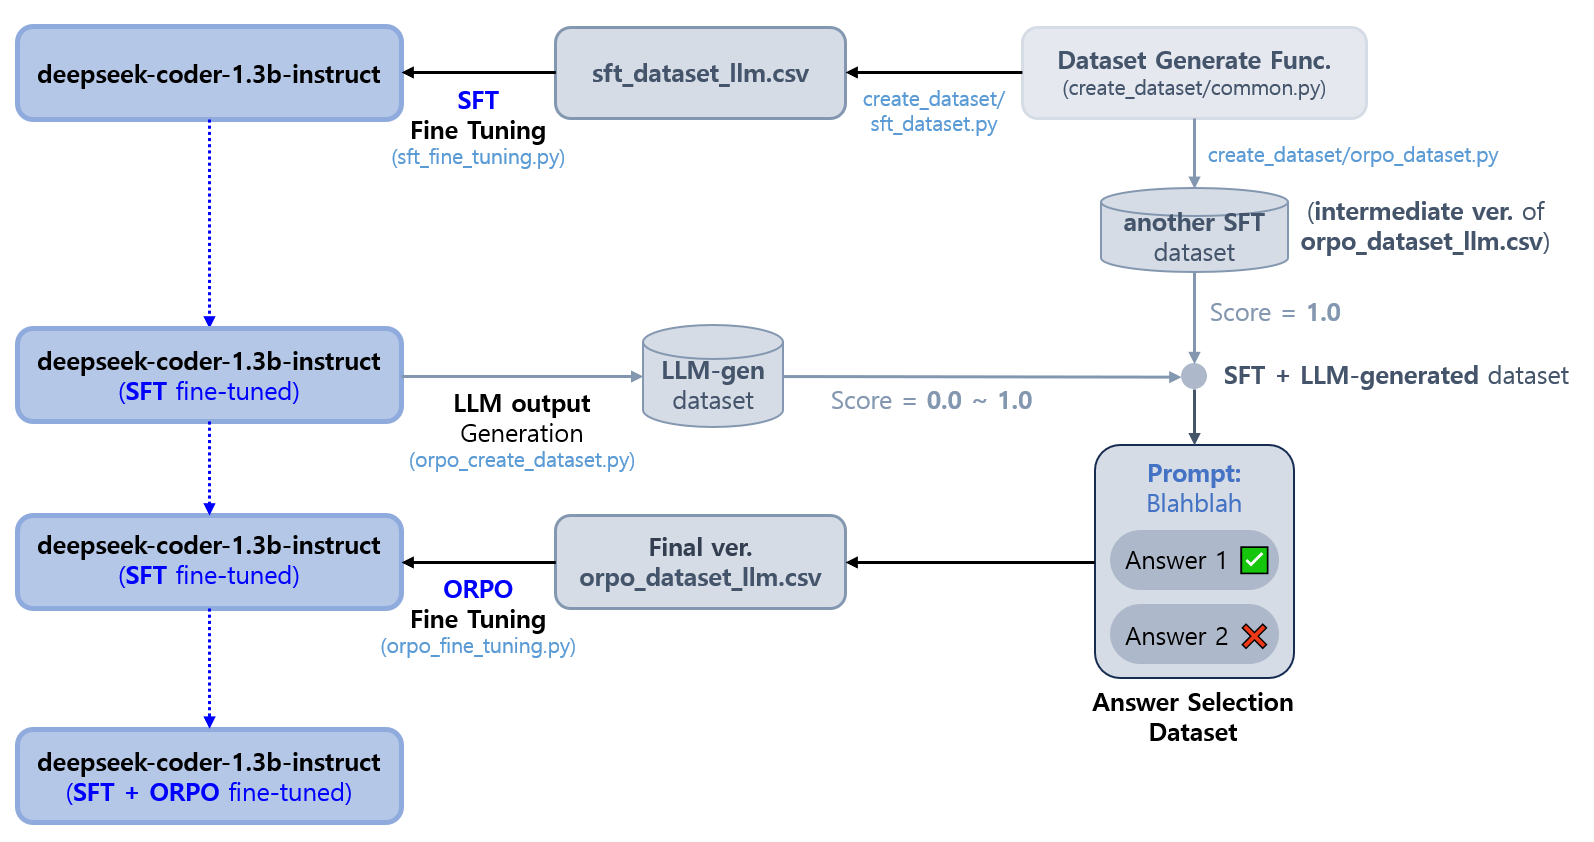
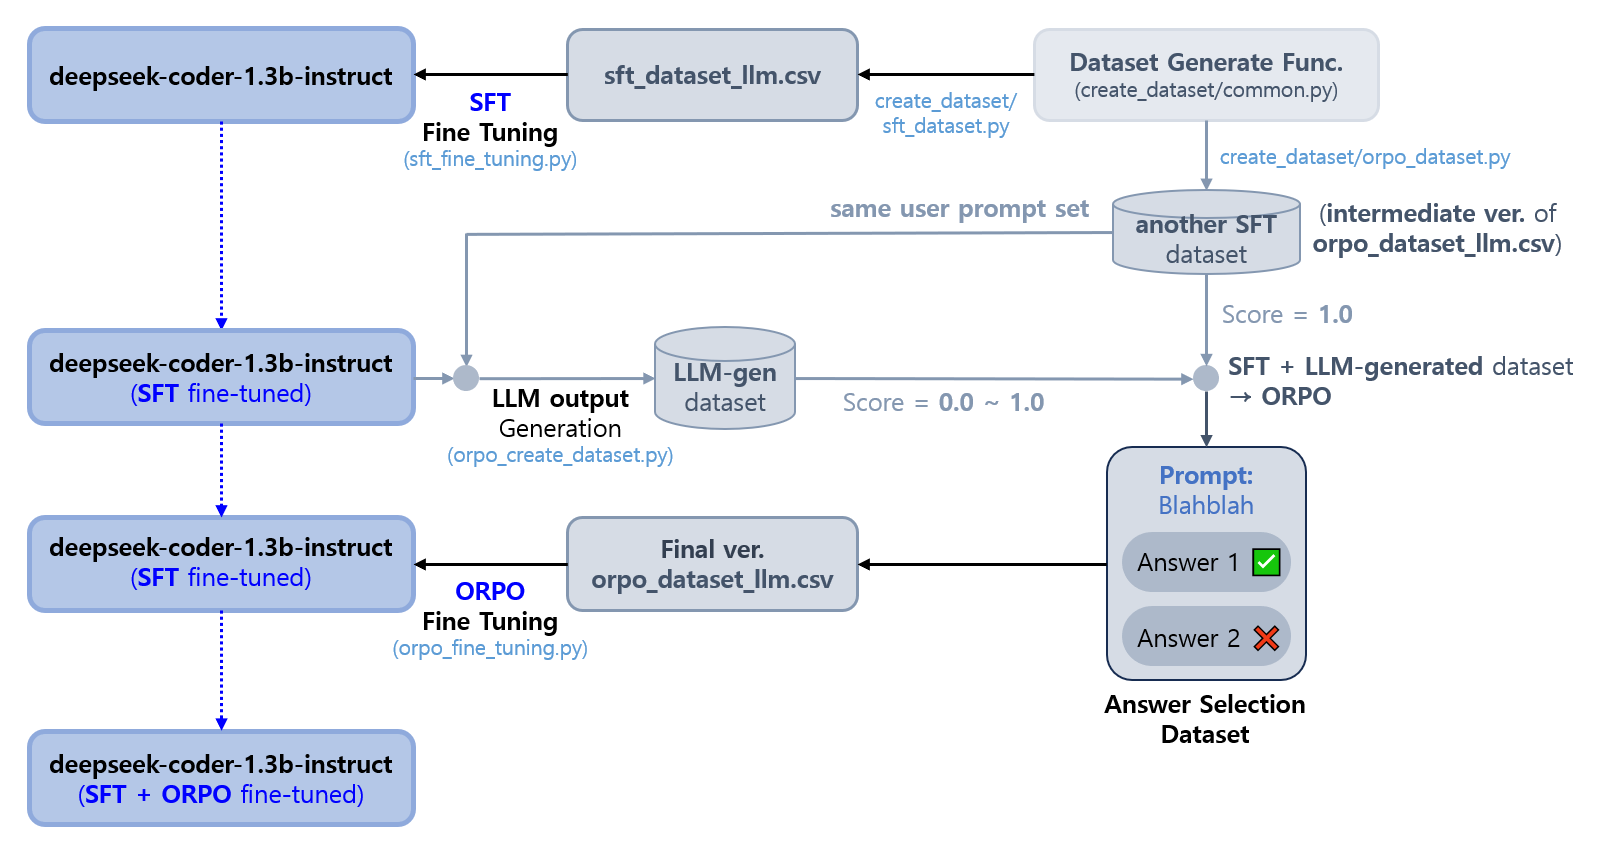
ADD: prepare ORPO info func

diff --git a/2025_03_12_DeepSeek_LLM/fine_tuning/orpo_create_dataset.py b/2025_03_12_DeepSeek_LLM/fine_tuning/orpo_create_dataset.py
@@ -1,35 +1,94 @@
 from sft_fine_tuning import load_sft_llm
 from common import compute_output_score
 import pandas as pd
+import torch
+
 import os
+import sys
+sys.path.append(os.path.dirname(os.path.abspath(os.path.dirname(__file__))))
+from draw_diagram.draw_diagram import generate_diagram_from_lines
+
 
 PROJECT_DIR_PATH = os.path.dirname(os.path.abspath(os.path.dirname(__file__)))
 
 
-# ORPO 용 데이터셋 (SFT 와 동일한 포맷) 의 DataFrame 에 ORPO 용 데이터 추가
-# Create Date : 2025.03.20
+# ORPO 용 데이터셋 (SFT 와 동일한 포맷) 생성에 필요한 데이터 생성 (LLM 출력에 대한 평가 결과)
+# Create Date : 2025.03.22
 # Last Update Date : -
 
 # Arguments:
-# - llm           (LLM)              : SFT 로 Fine-tuning 된 LLM
-# - sft_format_df (Pandas DataFrame) : 학습 데이터셋 csv 파일로부터 얻은 DataFrame (from create_dataset/orpo_dataset_llm.csv)
-#                                      columns: ['input_data', 'output_data', 'dest_shape_info', 'score']
+# - llm            (LLM)              : SFT 로 Fine-tuning 된 LLM
+# - tokenizer      (tokenizer)        : 해당 LLM 에 대한 tokenizer
+# - orpo_format_df (Pandas DataFrame) : 학습 데이터셋 csv 파일로부터 얻은 DataFrame (from create_dataset/orpo_dataset_llm.csv)
+#                                       columns: ['input_data', 'output_data', 'dest_shape_info', 'score']
+
+# Returns:
+# - orpo_info_df (Pandas DataFrame) : ORPO 용 데이터셋 생성에 필요한 LLM 출력 평가 결과의 DataFrame
+#                                     columns: ['input_data', 'output_data', 'score']
+#
+# - log/orpo_info_df.csv 에 ORPO 용 LLM 출력 평가 결과를 중간 저장
+
+def prepare_orpo_info(llm, tokenizer, orpo_format_df):
+    orpo_added_df = {'input_data': [], 'output_data': [], 'score': []}
+
+    for idx, row in orpo_format_df.iterrows():
+        prompt = row['input_data']
+        dest_shape_info = row['dest_shape_info']
+
+        inputs = tokenizer(f'### Question: {prompt}\n ### Answer: ', return_tensors='pt').to(llm.device)
+
+        with torch.no_grad():
+            outputs = llm.generate(**inputs, max_length=1536, do_sample=True)
+            llm_answer = tokenizer.decode(outputs[0], skip_special_tokens=True).replace('<|EOT|>', '')
+            llm_answer = llm_answer.split('### Answer: ')[1]  # prompt 부분을 제외한 answer 만 표시
+            score = compute_output_score(dest_shape_info, llm_answer)
+
+        # llm answer 를 이용하여 Diagram 생성 및 저장
+        try:
+            llm_answer_lines = llm_answer.split('\n')
+            os.makedirs(f'{PROJECT_DIR_PATH}/fine_tuning/sft_model_diagrams_on_orpo_dataset', exist_ok=True)
+            diagram_save_path = f'{PROJECT_DIR_PATH}/fine_tuning/sft_model_diagrams_on_orpo_dataset/diagram_{idx:06d}.png'
+            generate_diagram_from_lines(llm_answer_lines, diagram_save_path)
+
+        except Exception as e:
+            print(f'SFT diagram generation failed: {e}')
+
+        orpo_added_df['input_data'].append(prompt)
+        orpo_added_df['output_data'].append(llm_answer)
+        orpo_added_df['score'].append(score)
+
+        pd.DataFrame(orpo_added_df).to_csv(f'{PROJECT_DIR_PATH}/fine_tuning/log/orpo_info_df.csv')
+
+    return orpo_added_df
+
+
+# ORPO 용 데이터셋 (SFT 와 동일한 포맷) 의 DataFrame 에 ORPO 용 데이터 추가
+# Create Date : 2025.03.22
+# Last Update Date : -
+
+# Arguments:
+# - orpo_format_df (Pandas DataFrame) : 학습 데이터셋 csv 파일로부터 얻은 DataFrame (from create_dataset/orpo_dataset_llm.csv)
+#                                       columns: ['input_data', 'output_data', 'dest_shape_info', 'score']
+# - orpo_info_df   (Pandas DataFrame) : ORPO 용 데이터셋 생성에 필요한 LLM 출력 평가 결과의 DataFrame
+#                                       columns: ['input_data', 'output_data', 'score']
 
 # Returns:
 # - orpo_df (Pandas DataFrame) : ORPO 용 데이터가 추가된 데이터셋의 DataFrame
 #                                columns: ['input_data', 'output_data', 'dest_shape_info', 'score']
 
-def add_orpo_dataset(llm, sft_format_df):
+def add_orpo_dataset(orpo_format_df, orpo_info_df):
     raise NotImplementedError
 
 
 if __name__ == '__main__':
-    llm = load_sft_llm()
-    sft_format_dataset_path = f'{PROJECT_DIR_PATH}/create_dataset/orpo_dataset_llm.csv'
-    sft_format_df = pd.read_csv(sft_format_dataset_path)
+    llm, tokenizer = load_sft_llm()
+    orpo_format_dataset_path = f'{PROJECT_DIR_PATH}/create_dataset/orpo_dataset_llm.csv'
+    orpo_format_df = pd.read_csv(orpo_format_dataset_path)
 
     # 이미 ORPO 용 데이터가 추가된 경우 오류 반환
-    assert min(sft_format_df['score']) < 1.0, 'ORPO DATA ALREADY ADDED'
+    assert min(orpo_format_df['score']) == 1.0, 'ORPO DATA ALREADY ADDED'
 
-    orpo_df = add_orpo_dataset(llm, sft_format_df)
+    orpo_info_df = prepare_orpo_info(llm, tokenizer, orpo_format_df)
+    orpo_df = add_orpo_dataset(orpo_format_df, orpo_info_df)
+
     orpo_df.to_csv(f'{PROJECT_DIR_PATH}/create_dataset/orpo_dataset_llm.csv')

diff --git a/2025_03_12_DeepSeek_LLM/fine_tuning/sft_fine_tuning.py b/2025_03_12_DeepSeek_LLM/fine_tuning/sft_fine_tuning.py
@@ -159,7 +159,7 @@ def test_sft_llm(llm, tokenizer, shape_infos, llm_prompts, llm_dest_outputs):
                 print('llm output generating ...')
 
             start = time.time()
-            outputs = llm.generate(**inputs, max_length=768, do_sample=True)
+            outputs = llm.generate(**inputs, max_length=1536, do_sample=True)
             generate_time = time.time() - start
             llm_answer = tokenizer.decode(outputs[0], skip_special_tokens=True).replace('<|EOT|>', '')
             llm_answer = llm_answer.split('### Answer: ')[1]  # prompt 부분을 제외한 answer 만 표시
